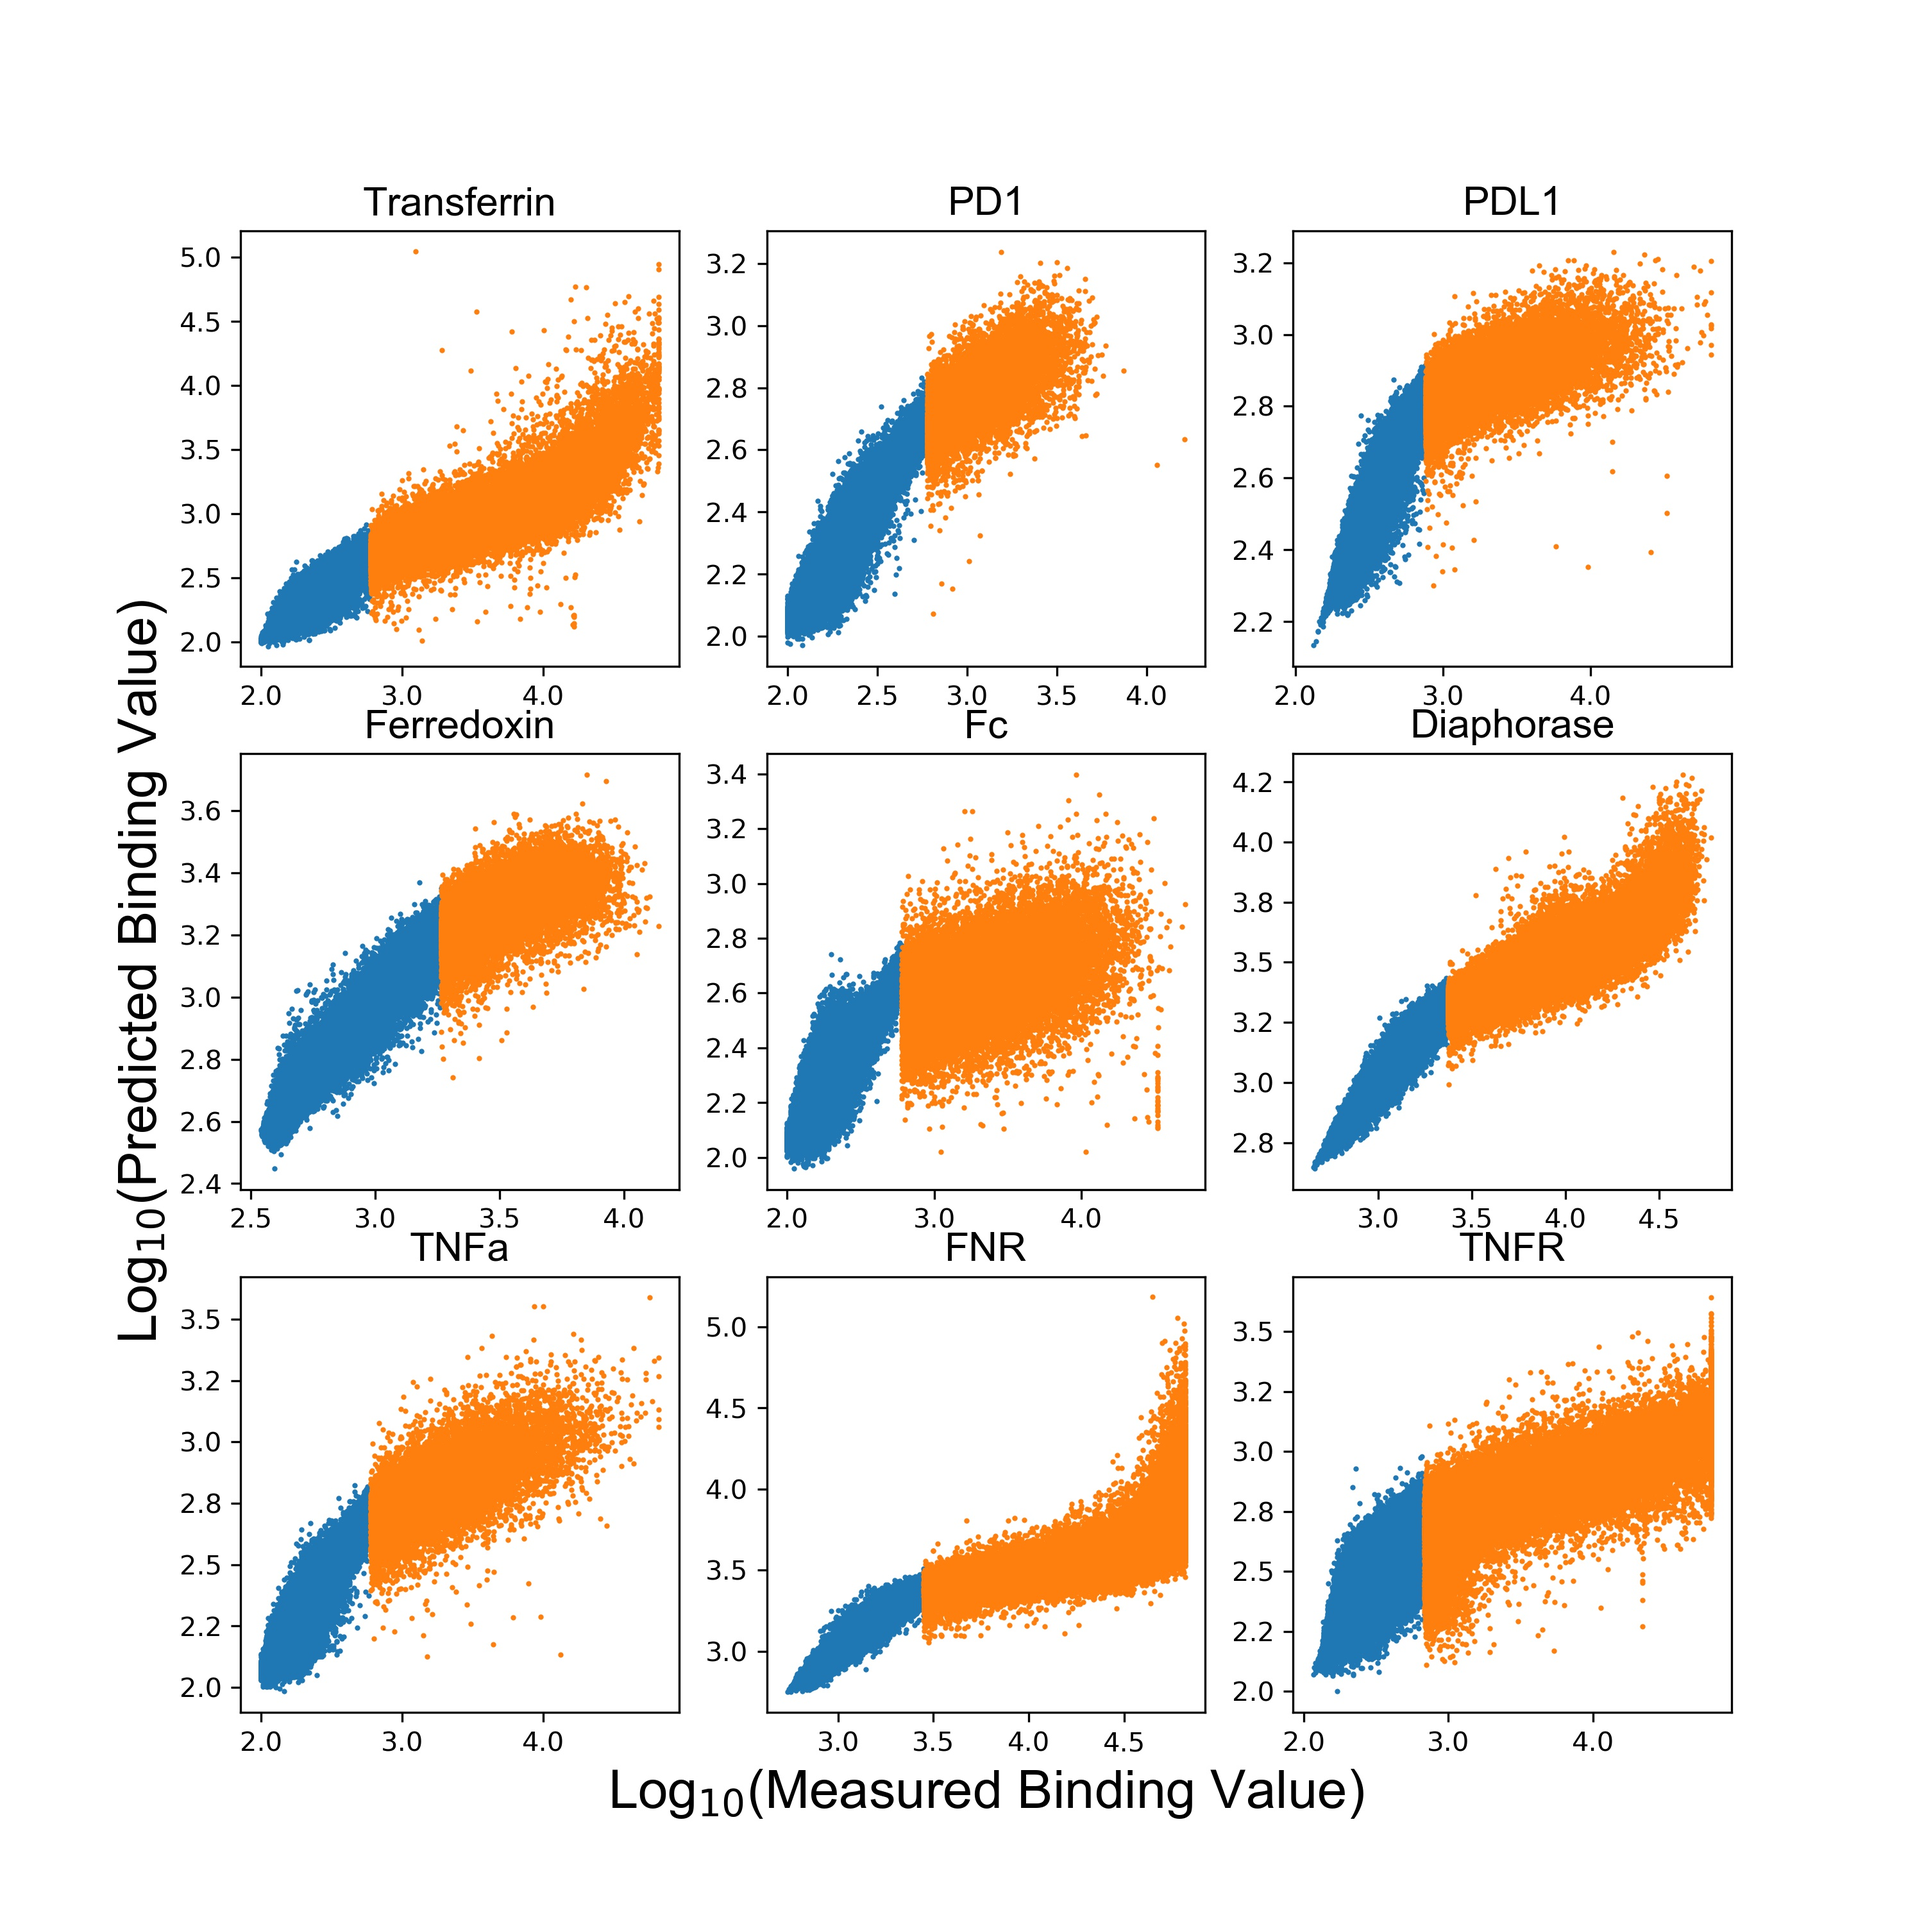
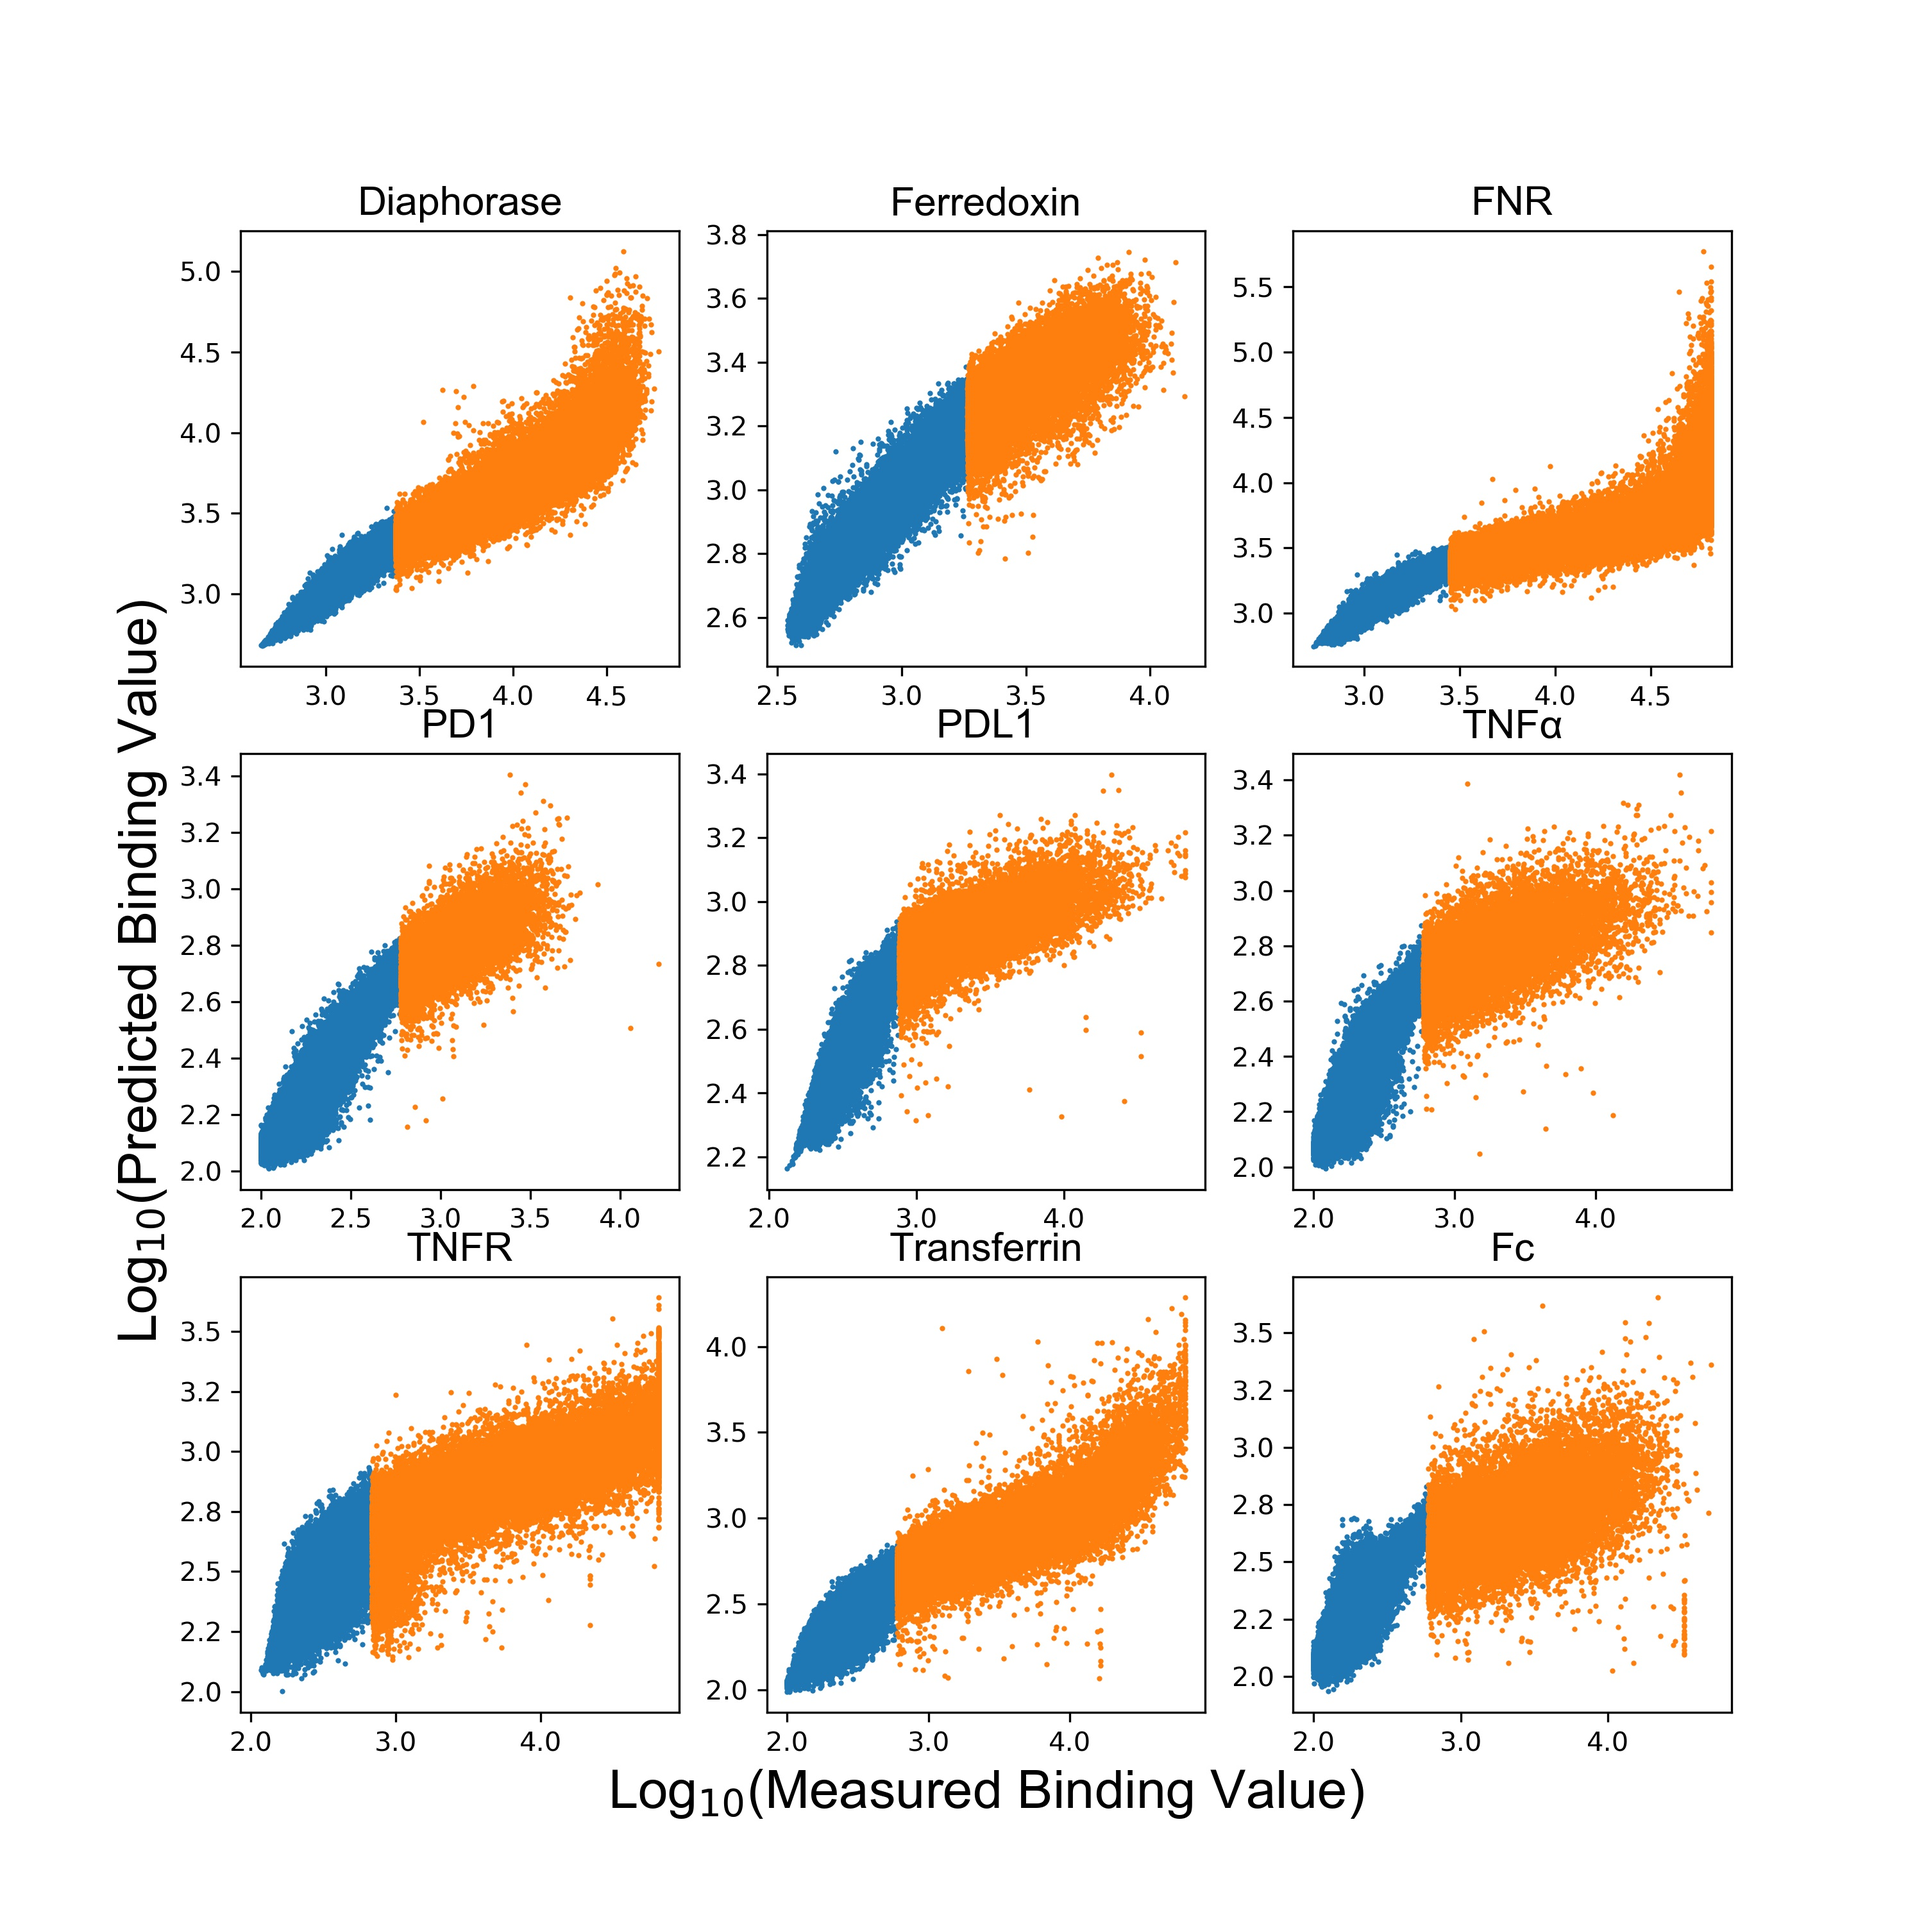
extrapolations

diff --git a/extrapolate_binding.py b/extrapolate_binding.py
@@ -13,7 +13,8 @@ import re
 fig, ax = plt.subplots(3, 3)
 
 # Extrapolate target data
-targets = ['Diaphorase', 'Ferredoxin', 'FNR', 'PD1', 'PDL1', 'TNFa', 'TNFR', 'Transferrin', 'Fc']
+targets = ['Diaphorase.csv', 'Ferredoxin.csv', 'FNR.csv', 'PD1.csv',
+           'PDL1.csv', 'TNFa.csv', 'TNFR.csv', 'Transferrin.csv', 'Fc.csv']
 for i, target in enumerate(targets):
 
     # Limit training set to peptides within five-fold of the weakest binder + 100
@@ -38,7 +39,8 @@ for i, target in enumerate(targets):
     train_real, train_pred, test_real, test_pred = nn.fit()
     ax[i//3, i%3].scatter(train_real, train_pred, 1)
     ax[i//3, i%3].scatter(test_real, test_pred, 1)
-    ax[i//3, i%3].set_title(target.split('.')[0] if target != 'TNFa' else 'TNFα', fontname='Arial', fontsize=15)
+    ax[i//3, i%3].set_title(target.split('.')[0] if target != 'TNFa.csv' else 'TNFα',
+                            fontname='Arial', fontsize=15)
     ax[i//3, i%3].xaxis.set_major_formatter(FormatStrFormatter('%.1f'))
     ax[i//3, i%3].yaxis.set_major_formatter(FormatStrFormatter('%.1f'))
 
